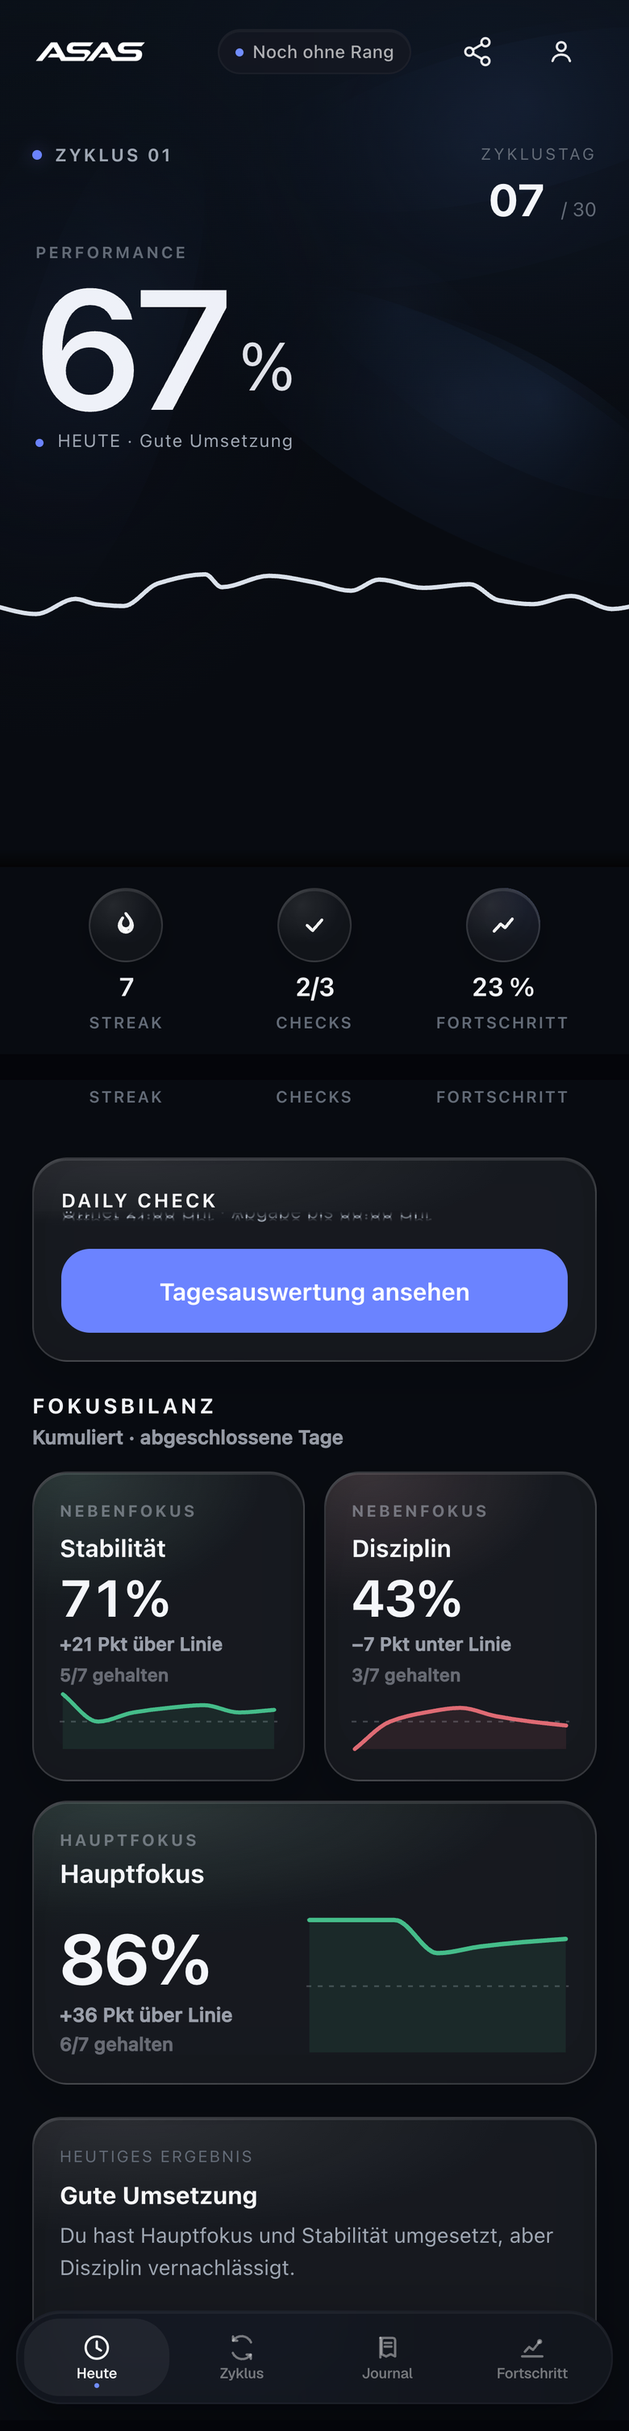
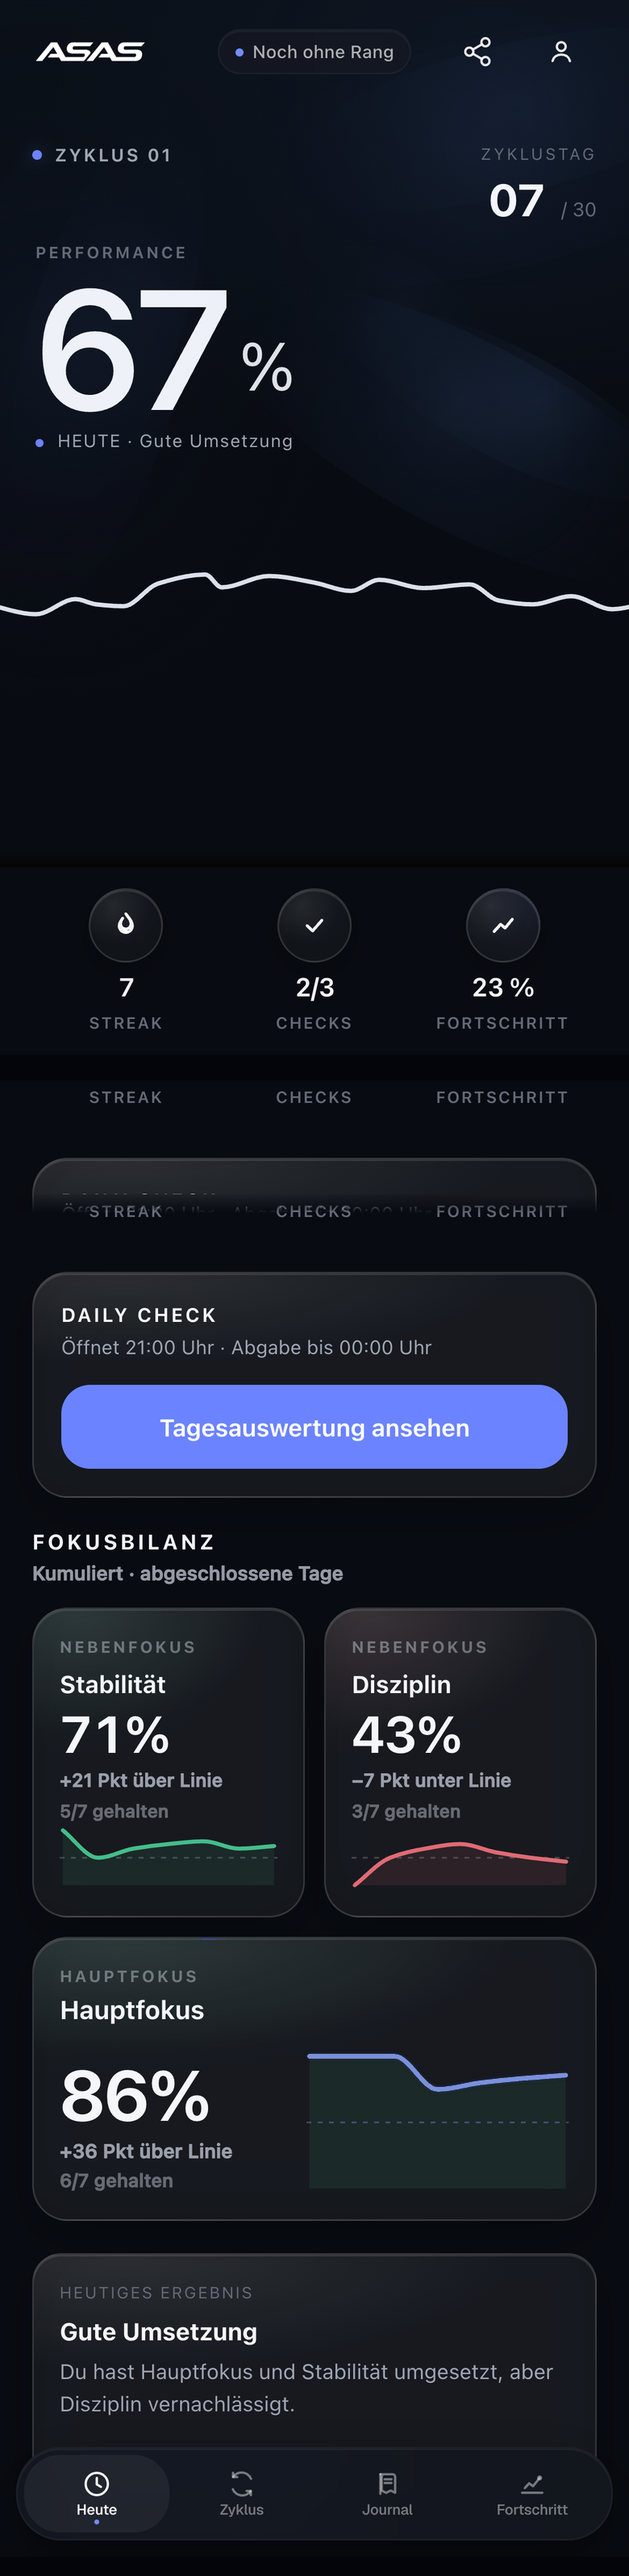
fix(shadi): blue Hauptfokus chart glow and text padding on mobile

diff --git a/shadi/verstehen.html b/shadi/verstehen.html
@@ -1794,7 +1794,7 @@
         }
 
         .foundation-copy {
-          padding: 10px 4px 28px;
+          padding: 14px 18px 32px;
         }
 
         .foundation-panel h3 {
